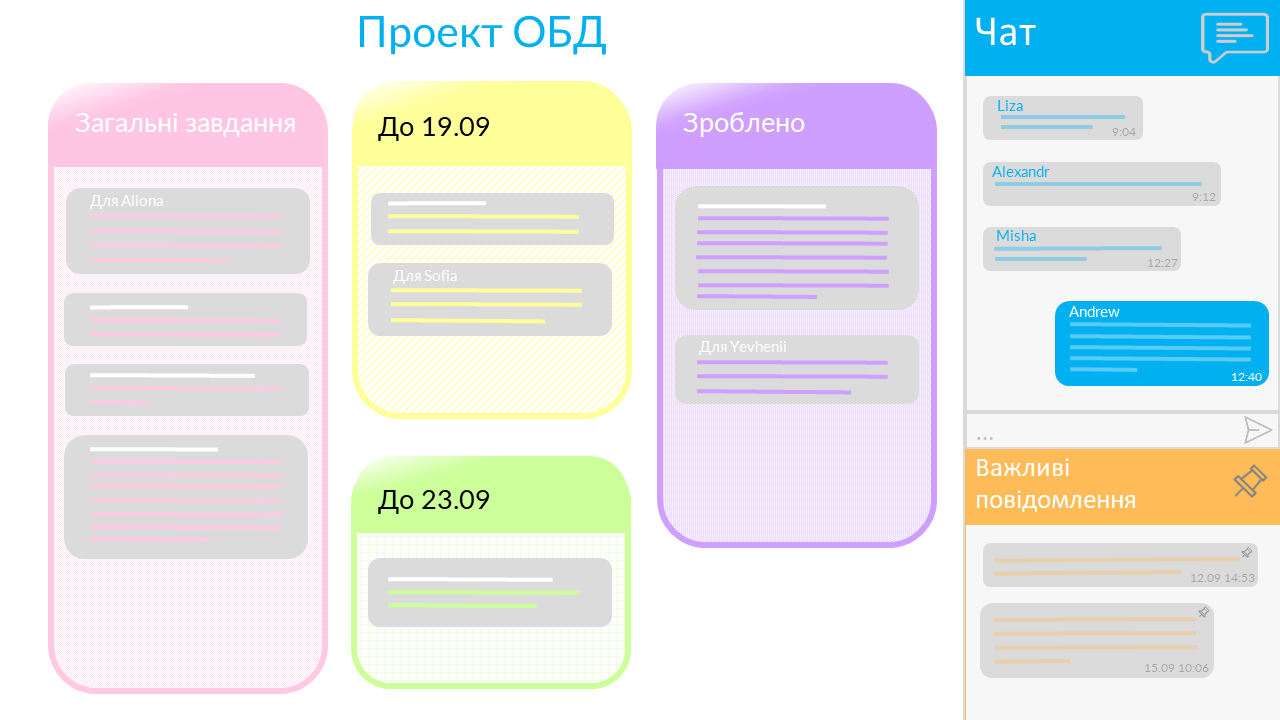
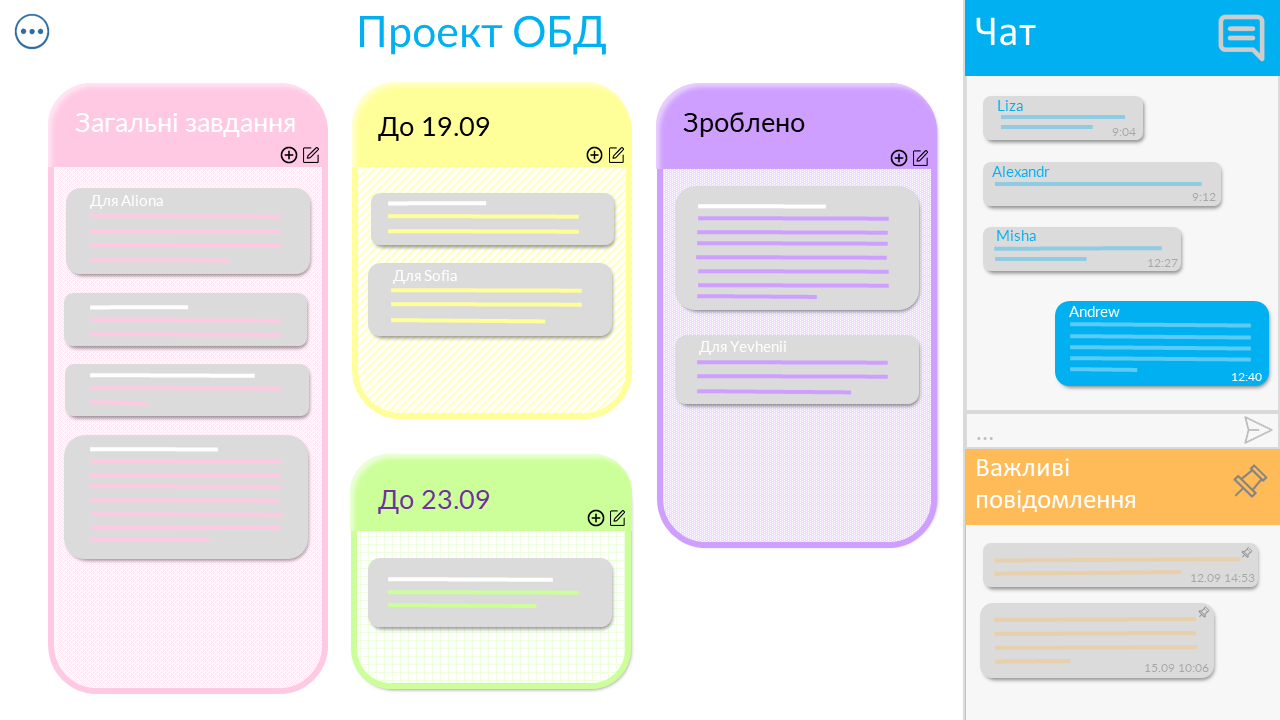
Update README.md: add collaborators list and update picture

diff --git a/README.md b/README.md
@@ -16,3 +16,12 @@ Boar допоможе організувати колективну роботу
 Boar має вигляд низки таблиць, які ви самі можете додавати та видаляти, в залежності від потреб, куди ви можете додавати задачі, які потрібно виконати. Ці таблиці можна персоналізувати, щоб вони відповідали вашим потребам та допомогли якнайкраще організувати виконання задач. Також, для комунікації між учасниками проекту є чат, де можна обговорювати проект, задавати питання та ділитися ідеями щодо проєкту.
 
 ![Interface concept](/docs/images/readme-interface-concept.png)
+
+## Над проектом працюють:
+- Братішко. О. / https://github.com/EzjikNiko
+- Брязкало М. / https://github.com/mihailBz
+- Гученко С. / https://github.com/sofiaguchenko
+- Кійченко А. / https://github.com/a6ln8ka
+- Копернак Е. / https://github.com/liza2403
+- Андрей Т. / https://github.com/drewg3r
+- Щурик Є. / https://github.com/Modizan
